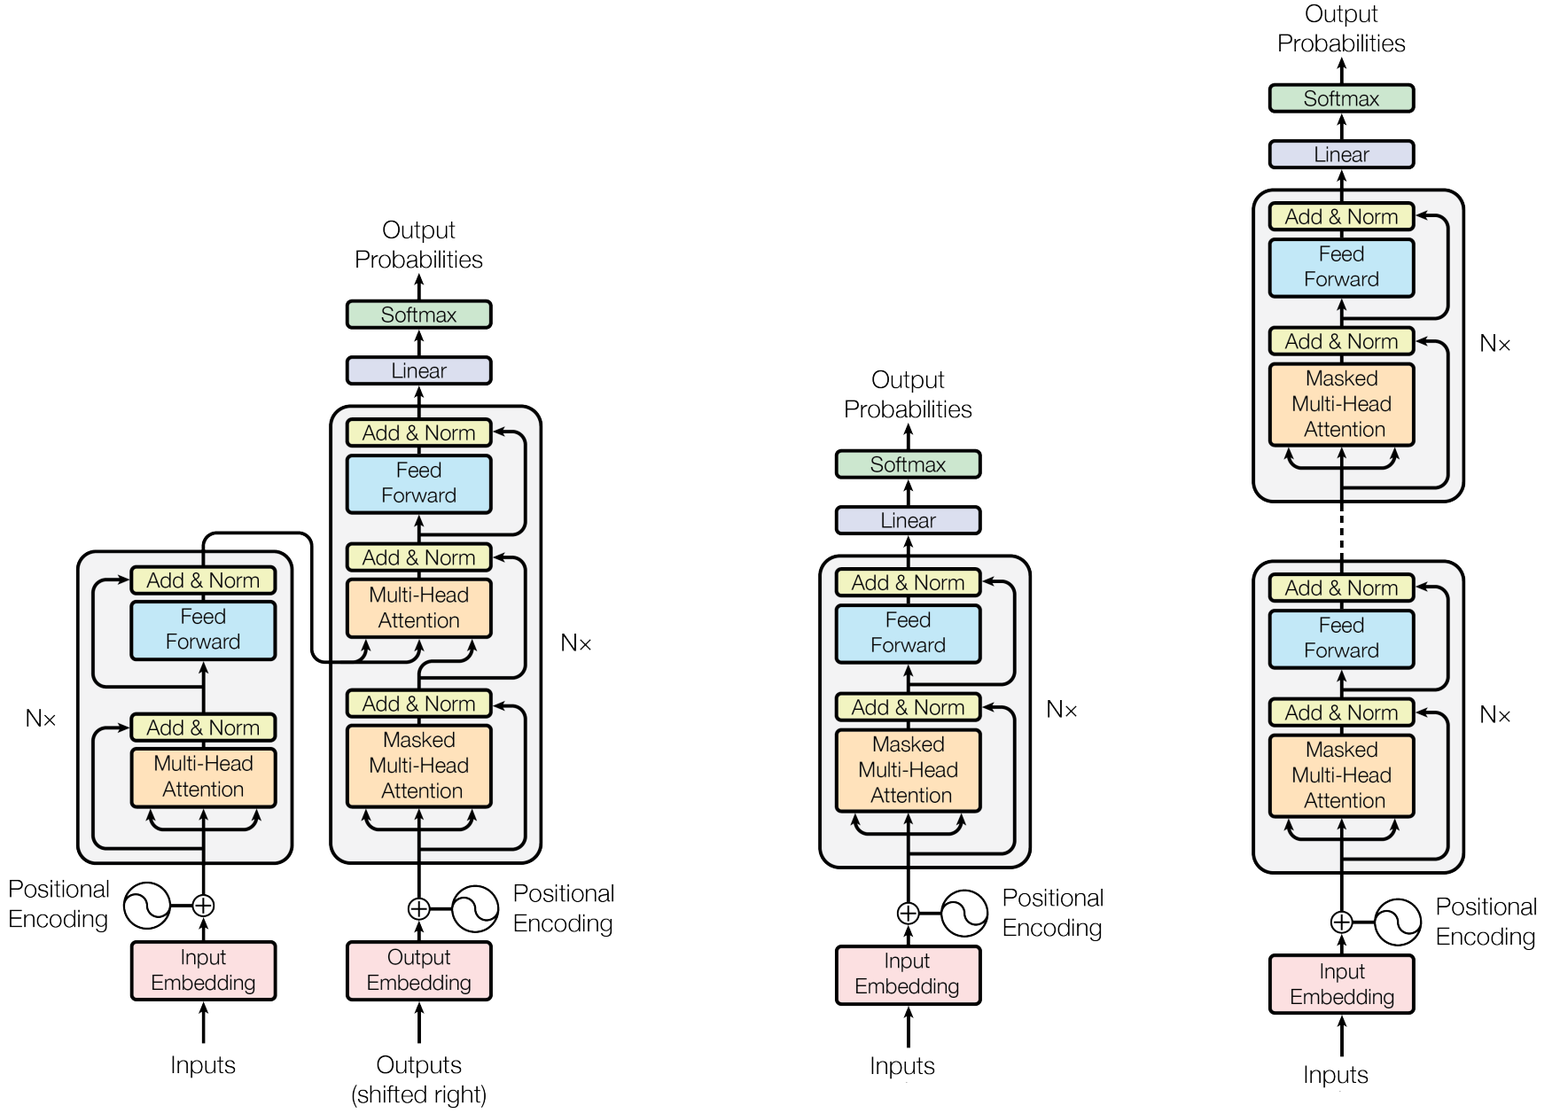
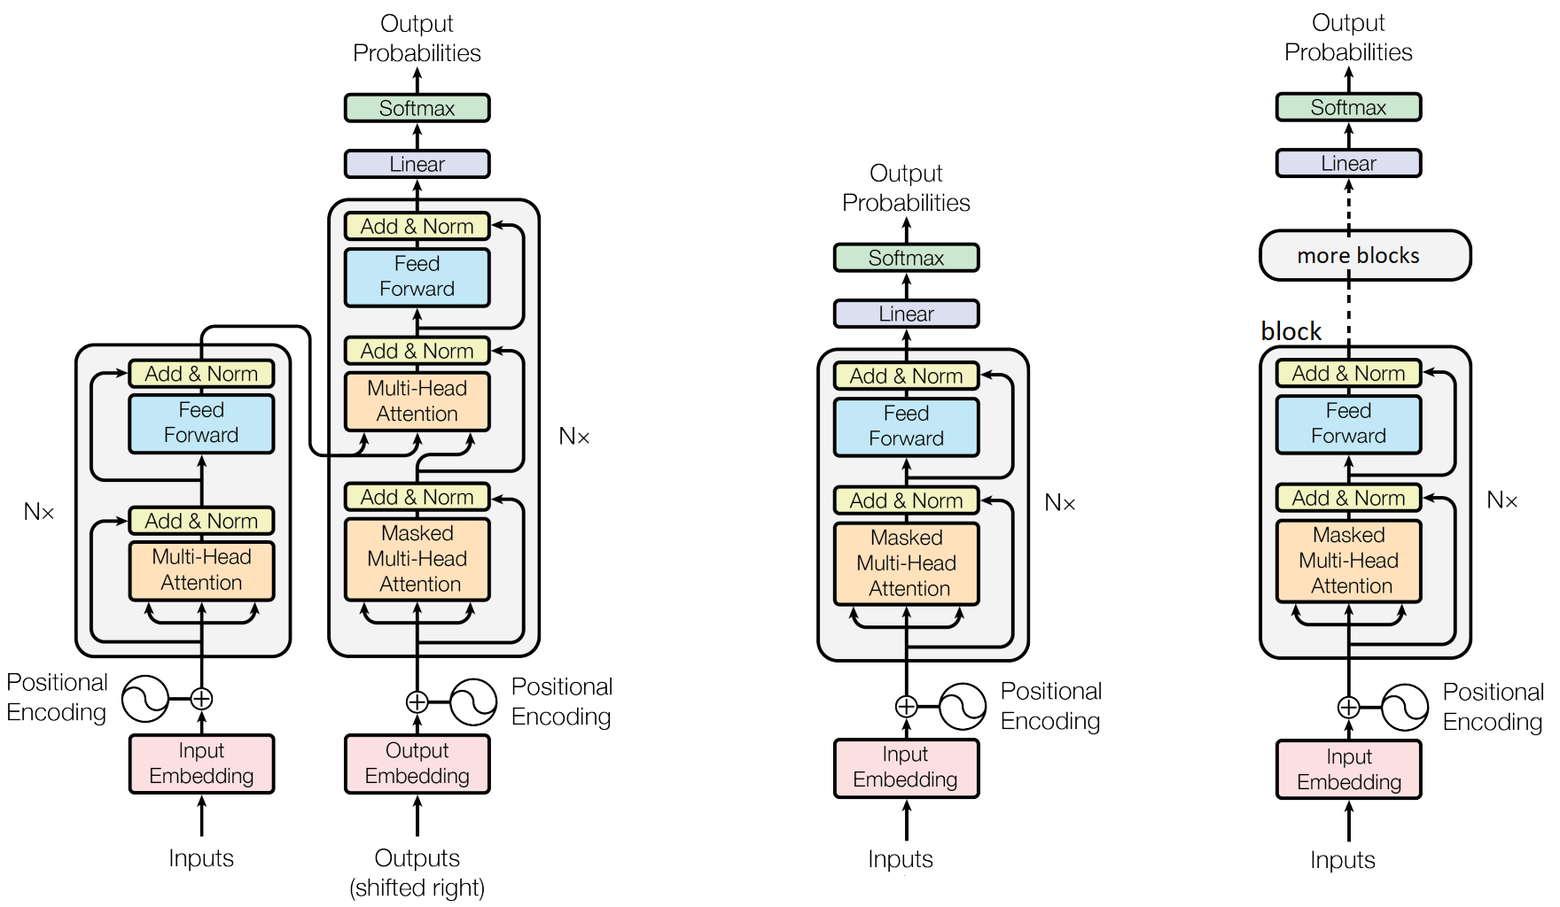
typos

diff --git a/_posts/2023-02-28-GPT-lite.md b/_posts/2023-02-28-GPT-lite.md
@@ -5,17 +5,16 @@ categories: [machine learning, Transformer, GPT, C++]
 tags: [machinelearning]
 ---
 
+I came across [Andrej Karpathy](https://karpathy.ai/)'s implementation of [nanoGPT](https://github.com/karpathy/nanoGPT). Because the [Transformer model](https://arxiv.org/abs/1706.03762)'s attention mechanism is now the underlying technology of most large and best performing ML models these days, I decided to dissect it and detail its step-by-step implementation. 
 
-Recently, I came across [Andrej Karpathy](https://karpathy.ai/)'s implementation of [nanoGPT](https://github.com/karpathy/nanoGPT). Because the [Transformer model](https://arxiv.org/abs/1706.03762)'s attention mechanism is now the underlying technology of most large and best performing ML models these days, I decided to dissect it and detail its step-by-step implementation. 
+In 2017, the original [Transformer]({{ site.baseurl }}{% post_url 2020-05-28-AI-Supercomputing-2 %}) model in the paper [Attention is all you need](https://arxiv.org/abs/1706.03762), presented a tool for translation based on a attention mechanism that was not recursive (with RNNs) but with an attention matrix that exposes all tokens to all other tokens in a sequence. Similarly to previous translation methods (e.g. RNNs with LSTMs, GRUs), it had two main components: an encoder that learns the structure of the source language, and a decode that learns the translation mechanism to the new language. We soon realized that the Transformer had much more to offer and could be used in many datatypes (time-sequences, images, etc). And most importantly, that the components could be "stacked" as a sequence of ML blocks, to perform higher-level congnitive tasks.
 
-In 2017, the original [Transformer]({{ site.baseurl }}{% post_url 2020-05-28-AI-Supercomputing-2 %}) model in the paper [Attention is all you need](https://arxiv.org/abs/1706.03762), presented a tool for translation based on a novel attention mechanism. Similarly to previous translation methods (e.g. RNNs with LSTMs, GRUs), it had two main components: an encoder that learns the structure of the source language, and a decode that learns the translation to the new language. We soon realized that the Transformer had much more to offer and could be used in many datatypes (time-sequences, images, etc). And most importantly, that the components could be "stacked" as a sequence of ML blocks, to perform higher-level congnitive tasks.
-
-An example of such model is [BERT]({{ site.baseurl }}{% post_url 2020-05-28-AI-Supercomputing-2 %}), a stack of Transformer encoders. Here we will look at a decoder-only architectures (*a la [GPT-2](https://en.wikipedia.org/wiki/GPT-2)*), used for generating long sentences from a given input. The fundamental difference between the encoder and the decoder is the *mask* in the underlying attention mechanism -- we'll cover it later.
+An example of such model is [BERT]({{ site.baseurl }}{% post_url 2020-05-28-AI-Supercomputing-2 %}), a stack of Transformer encoders, used for regression and classification tasks. Here we will look at a decoder-only architectures (*a la [GPT-2](https://en.wikipedia.org/wiki/GPT-2)*), used for generating long sentences from a given input. The fundamental difference between the encoder and the decoder is the *mask* in their attention mechanism -- we'll cover it later.
 
 <p align="center">
 <br/>
 <img width="100%" height="100%" src="/assets/GPT-lite/all_models.png"/><br/>
-<br/><small><b>Left:</b> the original transformer structure with an endocer and a decoder block. <b>Middle:</b> a single-block decoder-only model architecture. <b>Right:</b> the multi-block GPT-like decoder-only architecture, detailed here. <b>Source:</b> copied and adapted from <a href="https://arxiv.org/abs/1706.03762">Attention is all you need</a></small>.
+<br/><small><b>Left:</b> the original transformer structure with an endocer and a decoder block. <b>Middle:</b> a single-block decoder-only model architecture. <b>Right:</b> the multi-block GPT decoder-only architecture, detailed here. <b>Source:</b> copied and adapted from <a href="https://arxiv.org/abs/1706.03762">Attention is all you need</a></small>.
 </p>
 
 ### Parameters
@@ -45,17 +44,17 @@ learning_rate=1e-4
 # minibatch size, how many inputs to 'pack' per iteration 
 batch_size = 3
 
-# block size ie max number of training sequence.
-# E.g for input ABCD, we have 4 training examples: A->B, AB->C, ABC->C, ABCD->E
+# block size is the maximum sequence length used as input.
+# E.g. for block_size 4 and input ABCD, we have 4 training examples: A->B, AB->C, ABC->C, ABCD->E
 block_size = 4
 
 # size of the embeddings
 n_embd = 16
 
-# number of attention heads in the Multi-Attention mechanism
+# number of attention heads in the Multi-Attention mechanism (the Nx in the GPT decoder diagram)
 n_head = 6
 
-# dimensionality of the attention head. This is the $d_k$ in the paper formulation of Attn. Mech
+# dimensionality of the attention head. This is the $d_k$ in the paper formulation of Attn. Mechanism
 head_size = 8
 
 # depth of the network as number of decoder blocks.
@@ -71,7 +70,7 @@ As input dataset, we will use the [tiny shakespeare](https://raw.githubuserconte
 $ wget https://raw.githubusercontent.com/karpathy/char-rnn/master/data/tinyshakespeare/input.txt
 ```
 
-and then open it with python:
+and then load it in python:
 
 ```python
 with open("input.txt") as f:
@@ -94,7 +93,7 @@ decode = lambda x: ''.join([itos[i] for i in x]) #decode integers to text
 vocab_size = len(stoi)
 ``` 
 
-The *vocabulary size* (`vocab_size`) is simply the number of distinct tokens. In this case, `65` characters:
+The vocabulary size `vocab_size` is simply the number of distinct tokens. In this case, `65` characters:
 ```python
 
 !$&',-.3:;?ABCDEFGHIJKLMNOPQRSTUVWXYZabcdefghijklmnopqrstuvwxyz
@@ -107,7 +106,7 @@ The *vocabulary size* (`vocab_size`) is simply the number of distinct tokens. In
 <br/><small>The embedding module in our model, emphasized in red.</small></p>
 
 
-For better context, we can pack several characters into each token. I.e, instead of encoding a character per token, we can encode entire words or subwords. Few possibilities of pre-existent tokenizers are [google's sentencepiece](https://github.com/google/sentencepiece), the word or subword tokenizers by [huggingface](https://huggingface.co/docs/transformers/tokenizer_summary), or the  Byte-Pair-Encoding (BPE) `tiktoken` used by OpenAI's GPT:
+For better context and smaller embeddings, we can pack several characters into each token, instead of encoding a character per token. As an example, we can encode entire words or subwords. Few possibilities of pre-existent tokenizers are [google's sentencepiece](https://github.com/google/sentencepiece), the word or subword tokenizers by [huggingface](https://huggingface.co/docs/transformers/tokenizer_summary), or the  Byte-Pair-Encoding (BPE) `tiktoken` used by OpenAI's GPT:
 
 ```python
 import tiktoken
@@ -116,15 +115,15 @@ print(enc.n_vocab)
 print(enc.encode("Hello world").tolist())
 ```
 
-This would output vocabulary size of `100277` and `[9906, 1917]` and the encoding of `"Hello World"` as tokens and back to its string representation.
+This would output vocabulary size of `100277` and `[9906, 1917]` and the encoding of `"Hello World"` as tokens and on itr original string representation.
 
 ### Positional Encoddings
 
-The Attention mechanism returns a set of vectors. Only by adding positional encondings to each token we can introduce the notion of sequence. In the origianal paper they use a positional embedding based on the sin/cos frequency (see my previous transformers post for details). For simplicity, we can use instead the `Embedding` function in pytorch. 
+The Attention mechanism returns a set of vectors. Only by adding positional encondings to each token we can introduce the notion of sequence. In the origianal paper they use a positional embedding based on the $sin$ and $cos$ frequencies (see my previous transformer post for details). For simplicity, we can use instead the `Embedding` function in pytorch. 
 
 ```python
-    token_embedding_table = nn.Embedding(vocab_size, n_embd)
-    position_embedding_table = nn.Embedding(block_size, n_embd)
+    token_embedding_table = nn.Embedding(vocab_size, n_embd)    # from tokens to embedding
+    position_embedding_table = nn.Embedding(block_size, n_embd) # from position to embedding
 ```
 
 <p align="center"><br/>
@@ -143,7 +142,7 @@ train_data, valid_data = data[:n], data[n:]
 
 For this input: the full, train and validation datasets have `1115394`, `1003854` and `111540` elements, respectively.
 
-Batching in the attention mechanism is tricky. The model needs to accept a batch of several inputs, and each input will have a **maximum** size of `block_size`. For this to be possible, for a given input, the dataset includes all sequencies from size `1` to size `block_size`. For each input sequence from position `0` to `t`, the respective output is given by the element in positon `t+1`. This logic is better detailed by to following code:    
+Batching in the attention mechanism is tricky. The model needs to accept a batch of several inputs, and each input will have a maximum size of `block_size`. For this to be possible, for a given input, the dataset includes all sequencies from size `1` to size `block_size`. For each input sequence from position `0` to `t`, the respective output is given by the element in positon `t+1`. This logic is better detailed by to following code:    
 
 ```python
 def get_batch(source):
@@ -153,14 +152,16 @@ def get_batch(source):
   ix = torch.randint(len(source)-block_size, (batch_size,) )
   # collect `batch_size` subsequences of length `block_size` from source, as data and target
   x = torch.stack([source[i:i+block_size] for i in ix])
-  # target is just x shifted right (ie the next predicted word)
+  # target is just x shifted right (ie the predicted token is the next in the sequence)
   y = torch.stack([source[i+1:i+1+block_size] for i in ix])
   return x.to(device), y.to(device)
 
-#test get_batch()
+
+# test get_batch()
 xb, yb = get_batch(train_data)
 print("input:\n",xb)
 print("target:\n",yb)
+
 for b in range(batch_size): #for every batches
   print(f"\n=== batch {b}:")
   for t in range(block_size): #for each sequence in block
@@ -204,7 +205,7 @@ for input [39, 52, 42, 1] target is 52
 
 ### Masked Attention Heads
 
-The point of the attention mask is to only present each row (token) with the current and previous tokens in the sentence. The easiest (fixed) approach to do so is to create a lower diagonal matrix that weights each visible element to the total count of visible elements per row:
+The point of the attention mask is to define which elements are "visible" to other elements in the attention matrix, and by how much. A common example is to use a lower-diagonal attention matrix, that presents to each row (token), the current and previous tokens in the sentence. Each value in the attention matrix holds the "importance" that the column token infers -- compared to all other columns of that row -- when the row token needs to take a decision. Thus, the easiest implementation of an attention matrix is to simply add uniform weights across each row, so that all tokens have the same weight/importance:
 
 Given a random input value  `x` (shapped batch x time x channels):
 ```python
@@ -227,7 +228,7 @@ wei = wei.masked_fill(tril==0, float('-inf'))
 wei = F.softmax(wei, dim=-1) #equivalent to the normalization above
 ```
 
-where both notations output as `wei`:
+where both notations output as `wei` the following:
 
 ```python
 tensor([[1.0000, 0.0000, 0.0000, 0.0000, 0.0000, 0.0000, 0.0000, 0.0000],
@@ -240,7 +241,7 @@ tensor([[1.0000, 0.0000, 0.0000, 0.0000, 0.0000, 0.0000, 0.0000, 0.0000],
         [0.1250, 0.1250, 0.1250, 0.1250, 0.1250, 0.1250, 0.1250, 0.1250]])
 ```
 
-The `wei` matrix indicates how much *attention* each token should give to itself and previous tokens, normalized to 1. In this case, it's uniform.
+Again, the `wei` matrix indicates how much *attention* each token should give to itself and previous tokens, normalized to 1. In this case, it's uniform.
 We can do a dot-product of the input `x` by the attention `wei` and see the output of the attention head for the given `x`:
 
 ```python
@@ -295,15 +296,15 @@ v = value(x) # shape (B,T, head_size)
 out = wei @ v # shape (B,T,T) @ (B,T,C) --> (B,T,C)
 ```
 
-Note that `out = wei @ x` is the same inner dot-product of the previous items, but this time the attention weights are not uniformely distributed but are instead learnt parameters. And this is the main property and the main problem that the self-attention solves: the rationale is that the lower diagonal (the non-zeros part) will be learnt and change over time, in practice telling how much importance one token must give to each of the previous tokens, in order to predict the next token. This is different than the uniform attention matrix where weights were uniform across all previous tokens, i.e. aggregation was just a raw average of all tokens in the sequence. Here weights are learnt and can be different for each token, and we aggregate a them by a "value of importance" for each token.
+Note that `out = wei @ x` is the same inner dot-product of the previous items, but this time the attention weights are not uniform, they are learnt parameters and change per query and over time. And this is the main property and the main problem that the self-attention solves: non-uniform weights per query. This is different than the uniform attention matrix where weights were uniform across all previous tokens, i.e. aggregation was just a raw average of all tokens in the sequence. Here we aggregate them by a "value of importance" for each token.
 
 Also, without the $\sqrt{d_k}$ normalisation, we would have diffused values in `wei`, and it would approximate a one-hot vector. This normalization creates a more sparse `wei` vector.
 
-This mechanism we coded is called *self-attention* because the $K$, $Q$ and $V$ all come from the same input x. But attention is more general. `x` can be provided by a source, and $K ,$Q$ and $V$ may come from a different sources. This is called *cross attention* because we use input from one token and attention from another token.
+This mechanism we coded is called *self-attention* because the $K$, $Q$ and $V$ all come from the same input `x`. But attention is more general. `x` can be provided by a source, and $K$ ,$Q$ and $V$ may come from different sources -- this would be called *cross attention*.
 
-As final remarks, note that elements across batches are always independent, i.e. no cross-batch attention. And in many cases, e.g. a string representation of chemical compounds, or sentiment analysis, there's no attention mask (i.e. all tokens can attent to all tokens), or there's a custom mask that fits the use case (e.g. main upper and lower diagonals to allow tokens to see their closest neighbour only). And we dont have any cross atttention between the encoder and decoder.
+As final remarks, note that elements across batches are always independent, i.e. no cross-batch attention. And in many cases, e.g. a string representation of chemical compounds, or sentiment analysis, there can be no attention mask (i.e. all tokens can attend to all tokens), or there's a custom mask that fits the use case (e.g. main upper and lower diagonals to allow tokens to see their closest neighbour only). And here, we also don't have any cross atttention between the encoder and decoder.
 
-The multi-head attention is simply a concatenation of individual heads' outputs. Thus, the attention logic can be implemented as:
+The decoder includes a multi-head attention, which is simply a concatenation of individual heads' outputs. The `Head` and `MultiHeadAttention` modules can then be implemented as:
 
 ```python
 class Head(nn.Module):
@@ -338,6 +339,7 @@ class Head(nn.Module):
 class MultiHeadAttention(nn.Module):
   """ Multi-head attention as described in the paper.
       Simply a collection of heads with concatenated outputs."""
+
   def __init__(self, num_heads, head_size):
     super().__init__()
     self.heads = nn.ModuleList([Head(head_size) for _ in range(num_heads)])
@@ -354,11 +356,12 @@ class MultiHeadAttention(nn.Module):
 ### Feed Forward Network
 
 
-The Feed-forward network is a simply single-layer Deep Neural Network and is pretty straighforward to implement:
+The Feed-forward network (FFN) in the decoder is simply a single-layer Deep Neural Network and is pretty straighforward to implement:
 
 ```python
 class FeedForward(nn.Module):
   """ the feed forward network (FFN) in the paper"""
+
   def __init__(self, n_embd):
     super().__init__()
     # Note: in the paper (section 3.3) we have d_{model}=512 and d_{ff}=2048.
@@ -369,6 +372,7 @@ class FeedForward(nn.Module):
         nn.Linear(n_embd*4, n_embd),
         nn.Dropout(dropout)
       )
+
   def forward(self, x):
     return self.net(x)
 ```
@@ -379,11 +383,12 @@ class FeedForward(nn.Module):
 
 ### The GPT Block
 
-We'll call a GPT *block* the sequence of a multi-head attention and a feedforward. There is some subtle improvements we'd like to emphasize. Because network can become too deep (and hard to train) for a high number of sequential blocks, we added skip connections to each block. Also, in the original paper, the layer normalization operation is applied *after* the attention and the feed-forward network, but before the skip connection. In modern days, it is common to apply it in the *pre-norm formulation*, where normalization is applied before the attention and the FFN. That's also what we'll do in the following code: 
+We'll calla GPT *block* the sequence of a multi-head attention and a feedforward module. There is some subtle improvements we'd like to emphasize. Because the network can become too deep (and hard to train) for a high number of sequential blocks, we added skip connections to each block. Also, in the original paper, the layer normalization operation is applied *after* the attention and the feed-forward network, but before the skip connection. In modern days, it is common to apply it in the *pre-norm formulation*, where normalization is applied before the attention and the FFN. That's also what we'll do in the following code: 
 
 ```python
 class Block(nn.Module):
   """ Transformer block: comunication (attention) followed by computation (FFN) """
+
   def __init__(self, n_embd, n_head):
     # n_embd: embedding dimension
     # n_heads : the number of heads we'd like to use
@@ -407,8 +412,11 @@ class Block(nn.Module):
 
 ### Final Model:
 
+Putting it all together:
+
 ```python
 class MyModel(nn.Module):
+
   def __init__(self, num_head=4, n_layer=3):
     super().__init__()
     # vocabulary embedding and positional embedding
@@ -422,6 +430,7 @@ class MyModel(nn.Module):
     # one layer normalization before linear layer that oututs the vocabulary
     self.ln = nn.LayerNorm(n_embd)
     self.lm_head = nn.Linear(n_embd, vocab_size, bias=False)      
+
 
   def forward(self, idx, targets=None):
     """ call the model with idx and targets (training) or without targets (generation)"""
@@ -462,13 +471,13 @@ class MyModel(nn.Module):
 
 ### Train loop
 
-Now we can instantiate the model and copy it to the GPU:
+Now we can instantiate the model and copy it to the compute device:
 
 ```python
 m  = MyModel().to(device)
 ```
 
-and initialize the train loop (no magic here):
+We then initialize the optimizer and perform the train loop:
 
 ```python
 # train the model
@@ -498,7 +507,7 @@ for steps in range(max_iters):
 
 ### Size matters
 
-We can now test the model. We pass a single token (the `\n` character, encoded as `0`) to the model as initial character, and let it generate a sequence of 500 tokens: 
+We will now test the model. We pass a single token (the `\n` character, encoded as token `0`) to the model as initial character, and let it generate a sequence of 500 tokens: 
 
 ```python
 #a 1x1 tensor with batch size 1 and sequence length 1 and starting value 0 (0 is the \n character)
@@ -508,7 +517,7 @@ idx = torch.zeros((1,1), dtype=torch.long, device=device)
 print(decode(m.generate(idx, max_new_tokens=500).tolist()[0]))
 ```
 
-and this will start blabbing some text, which looks very random for now:
+and this will start blabbing some text, which looks a bit random for now:
 
 ```
 IVINILCHIUKI noes hereseoke
@@ -535,7 +544,7 @@ CEDUKINIG m.
 Hak's; te!
 ```
 
-This is because for the sake of this tutorial, we used very small parameters for our tiny GPT model. Better results can be achieved by increasing several of the parameters above, such as batch size, larger attention and more GPT blocks. As an example, if you try the following:
+This is because for the sake of this tutorial, we used very small parameters for our GPT lite model. Better results can be achieved by increasing several of the parameters above, such as batch size, larger attention and more GPT blocks. As an example, if you try the following:
 
 ```python
 eval_interval = 100
@@ -550,6 +559,7 @@ dropout = 0.2
 ```
 
 You will get a significant performance improvement:
+
 ```
 Pettience! if Tybalt ally kny to the waywards
 That we renow't I have satic I fain.
@@ -572,9 +582,9 @@ Tless and Rome: what guess the catter
 Than thou not pro
 ```
 
-All done! For the python implementaion of the code presented, see the file <a href="/assets/GPT-lite/gptlite.py">gptlite.py</a>.
+All done! For the python implementation of the code presented, see the file <a href="/assets/GPT-lite/gptlite.py">gptlite.py</a>.
 
-If you are interest in the real model size, the paper [Language Models are Few-Shot Learners](https://arxiv.org/abs/2005.14165) provide us with several details of the real implementation of GPT-3:
+If you are interest on the real scale size, the paper [Language Models are Few-Shot Learners](https://arxiv.org/abs/2005.14165) provide us with several details related to the GPT-3:
 
 <p align="center"><br/>
 <img width="80%" height="80%" src="/assets/GPT-lite/table_gpt_size.png"/><br/>
@@ -582,7 +592,7 @@ If you are interest in the real model size, the paper [Language Models are Few-S
 
 ### Fine-tuning and final remarks:
 
-The task that we detailed in this post is *only* the training step, the pre-training. This is only the initial step that lets the model learn text structure from a general dataset e.g. wikipedia or our tiny shakespeare. For specific task resolutions, two other stages of finetuning should follow, that optimize the model to the task at hand (e.g. question-answer tasks). In the original paper, this involved using reinforcement learning against user feedback.
+The task that we detailed in this post is *only* the training step, the pre-training. This is only the initial step that lets the model learn the text structure from a general dataset e.g. wikipedia or our tiny shakespeare. For specific task resolutions, two other stages of finetuning should follow, that optimizes the model to the task at hand (e.g. question-answer tasks). In the original paper, this involved using reinforcement learning against user feedback.
 
 If you are interested in this particular GPT implementation or want to learn more about GPT in general, see the [original tutorial video](https://www.youtube.com/watch?v=kCc8FmEb1nY), [OpenAI GPT-3 paper](https://arxiv.org/abs/2005.14165), [OpenAI ChatGPT blog post](https://openai.com/blog/chatgpt/), the [nanoGPT repo](https://github.com/karpathy/nanoGPT) and the paper [Language Models are Few-Shot Learners](https://arxiv.org/abs/2005.14165).
 

diff --git a/index.md b/index.md
@@ -18,8 +18,8 @@ Hi! I'm a research engineer on the fields of Machine Learning (ML) and High Perf
 <!-- CSS of table defined in _includes/head.html -->
 <div class="Rtable Rtable--3cols Rtable--collapse">
 
-  <div class="Rtable-cell"> <a href="{{site.resume}}"><i class="far fa-file"></i> one page resume</a> </div>
-  <div class="Rtable-cell"> <a href="{{site.cv}}"><i class="far fa-file"></i> full cv</a> </div>
+  <div class="Rtable-cell"> <a href="{{site.resume}}"><i class="far fa-file"></i> resume</a> </div>
+  <!-- <div class="Rtable-cell"> <a href="{{site.cv}}"><i class="far fa-file"></i> full cv</a> </div> -->
   <div class="Rtable-cell"> <a href="mailto:{{ site.author.email }}?subject=Hello"><i class="far fa-envelope" title="Email"></i> {{site.author.email}}</a> </div>
 
   <div class="Rtable-cell"> <a href="https://www.linkedin.com/in/{{ site.linkedin_username }}"> <i class="fab fa-linkedin" ></i> {{ site.linkedin_username }}</a> </div>
